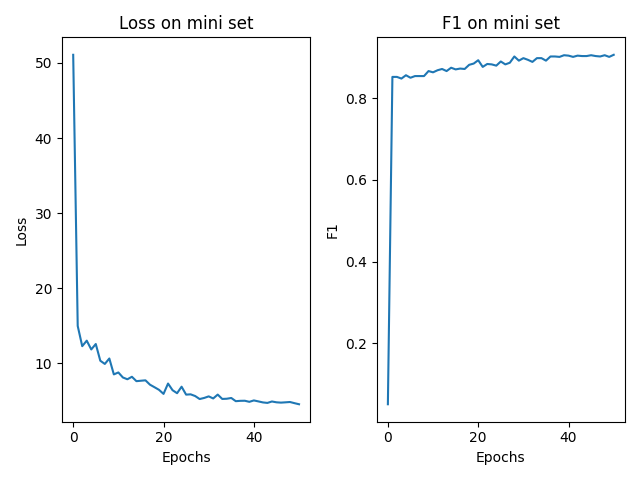
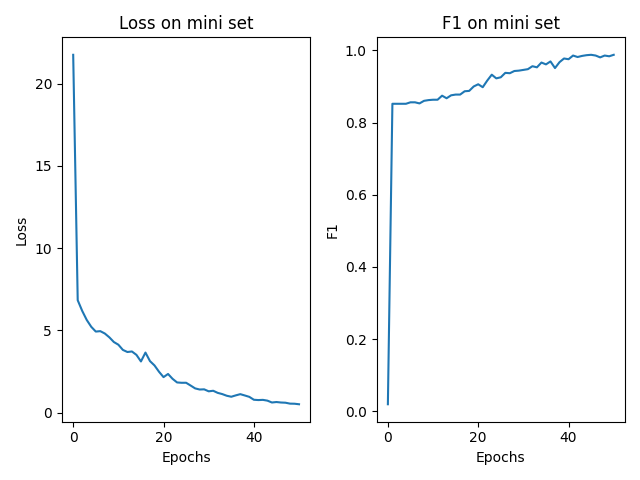
LSTM minirun bug fix + more plots

diff --git a/model/nerc.py b/model/nerc.py
@@ -200,6 +200,8 @@ class bLSTMCRF(nn.Module):
                  token_emb_size=100, lstm_hidden_size=200, max_word_len=20, sent_len=10, dropout_rate=0.5):
         super(bLSTMCRF, self).__init__()
 
+        self.init_embeddings(len(char_to_idx), char_emb_size, len(tok_to_idx), token_emb_size, token_vecs)
+
         self.inp_dropout = nn.Dropout(p=dropout_rate)
         self.lstm = nn.LSTM(token_emb_size, lstm_hidden_size, bidirectional=True, batch_first=True)
         self.outp_dropout = nn.Dropout(p=dropout_rate)
@@ -230,11 +232,54 @@ class bLSTMCRF(nn.Module):
         toks: (batch_size)
         """
         x = self.tok_embs(toks)
+        x = torch.unsqueeze(x, 0)
 
         x = self.inp_dropout(x)
         x, _ = self.lstm(x)
         x = self.outp_dropout(x)
         x = self.hidden2emissions(x)
+
+        return x
+
+    def init_embeddings(self, num_chars, char_emb_size, voc_size, token_emb_size, token_vecs):
+        self.char_embs = nn.Embedding(num_chars, char_emb_size)
+        self.tok_embs = nn.Embedding(voc_size, token_emb_size)
+
+        nn.init.kaiming_uniform_(self.char_embs.weight)
+        self.tok_embs.load_state_dict({"weight": token_vecs})
+
+    def loss(self, emissions, labels):
+        return - self.crf(emissions, labels)
+
+    def decode(self, emissions):
+        return self.crf.decode(emissions)
+
+
+class OnlyCRF(nn.Module):
+    """
+    Subnet of CNNbLSTMCRF
+    """
+    def __init__(self, char_to_idx, tok_to_idx, tag_to_idx, token_vecs, char_emb_size=30, char_repr_size=30, 
+                 token_emb_size=100, lstm_hidden_size=200, max_word_len=20, sent_len=10, dropout_rate=0.5):
+        super(OnlyCRF, self).__init__()
+
+        self.init_embeddings(len(char_to_idx), char_emb_size, len(tok_to_idx), token_emb_size, token_vecs)
+
+        self.embs2emissions = nn.Linear(token_emb_size, len(tag_to_idx))
+        nn.init.xavier_uniform_(self.embs2emissions.weight)
+        nn.init.zeros_(self.embs2emissions.bias)
+
+        self.crf = CRF(len(tag_to_idx), batch_first=True)
+
+    def forward(self, chars, toks):
+        """
+        chars: (batch_size, num_chars) 
+        toks: (batch_size)
+        """
+        x = self.tok_embs(toks)
+        x = torch.unsqueeze(x, 0)
+
+        x = self.embs2emissions(x)
 
         return x
 

diff --git a/train.py b/train.py
@@ -1,6 +1,6 @@
 from utils.memory_management import limit_memory, load_obj, save_obj
 from utils.plotter import plot_mini
-from model.nerc import CNNbLSTMCRF, CNNCRF, Data, collate_fn
+from model.nerc import CNNbLSTMCRF, CNNCRF, bLSTMCRF, OnlyCRF, Data, collate_fn
 
 from math import sqrt
 from torch.utils.data import DataLoader
@@ -37,7 +37,7 @@ if __name__ == '__main__':
     limit_memory(7 * 1024 * 1024 * 1024)
 
     parser = argparse.ArgumentParser()
-    parser.add_argument("part", choices=["full", "CNN", "LSTM"], default="full")
+    parser.add_argument("part", choices=["full", "CNN", "LSTM", "CRF"], default="full")
     parser.add_argument("--mini", action='store_true')
 
     args = parser.parse_args()
@@ -74,7 +74,11 @@ if __name__ == '__main__':
 
     if args.part == "LSTM":
         print("Initializing bLSTMCRF")
-        model = CNNCRF(char_to_idx, tok_to_idx, tag_to_idx, token_vecs)
+        model = bLSTMCRF(char_to_idx, tok_to_idx, tag_to_idx, token_vecs)
+
+    if args.part == "CRF":
+        print("Initializing CRF")
+        model = OnlyCRF(char_to_idx, tok_to_idx, tag_to_idx, token_vecs)
 
     print("Trainable weights:")
     for name, param in model.named_parameters():
